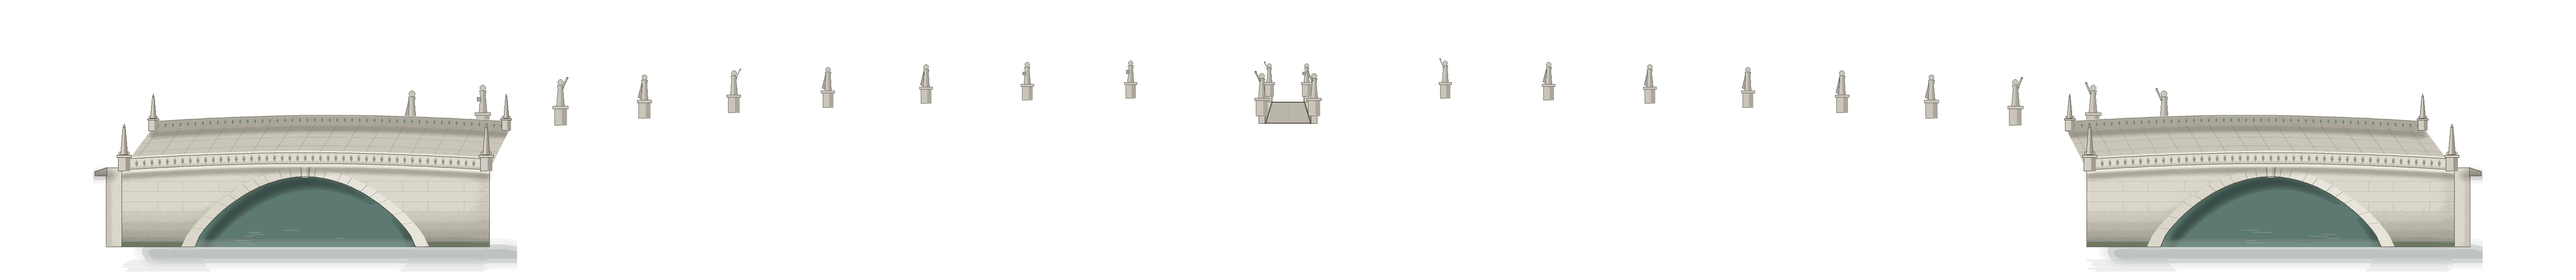
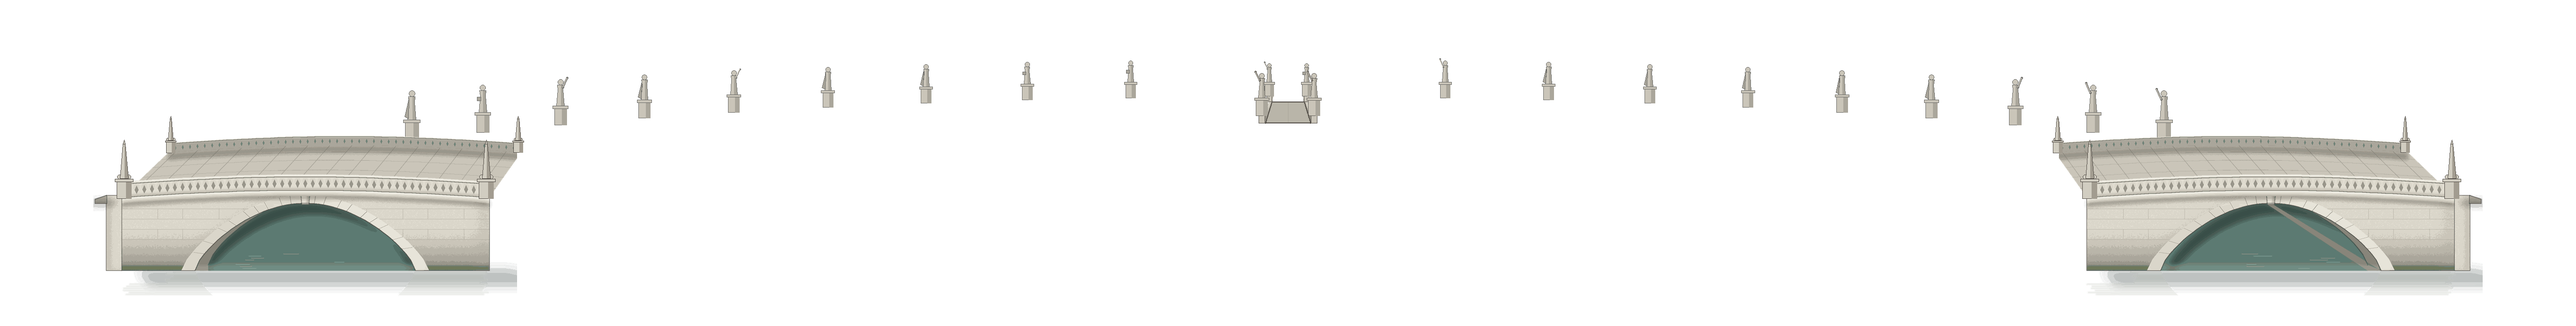
Padova: i ponti più vicini alla telecamera, più grandi, con lo sguancio dell'arco in prospettiva (#378)
Claude-Session: https://claude.ai/code/session_01Bf1d2rFJnp9n4pFf7DSqn4

diff --git a/src/shared/stages.ts b/src/shared/stages.ts
@@ -539,7 +539,7 @@ export const STAGES: Record<string, StageSpec> = {
         // Il canale dietro e attorno all'isola (#378), le anse ai lati, la fila di statue sulla sponda di là e i ponticelli
         { file: "canale-dietro.png", x: 960, y: 644, floatersAfter: true },
         { file: "ansa.png", x: 960, y: 604 },
-        { file: "ponticelli.png", x: 960, y: 640 },
+        { file: "ponticelli.png", x: 960, y: 690 },
         // il parco oltre il vialetto, ai lati: i platani più lontani, più piccoli
         { file: "platano.png", x: -330, y: 566, scale: 0.3 },
         { file: "platano.png", x: 2250, y: 566, scale: 0.3, flip: true },

diff --git a/tools/arene/padova.py b/tools/arene/padova.py
@@ -2212,19 +2212,22 @@ def _walk_bridge_painted(t, x_in, x_out, rng):
     a, b = min(x_in, x_out), max(x_in, x_out)
     left_side = x_out < x_in  # il ponte di sinistra: verso il centro c'è l'isola a destra
     x0, y0 = a - 30, 446
-    w, h = b - a + 60, 220
+    w, h = b - a + 60, 236
     q = Quadro(w, h, origin=(x0, y0), scale=t.k)
     ink = (78, 72, 66)
     S, S_SH, S_DK, S_HI = (226, 222, 210), (176, 170, 158), (128, 124, 116), (246, 244, 236)
     WATER, WATER_D = (92, 122, 114), (54, 74, 68)
-    far_y, near_y, water, hump = 480, 522, 604, 7
+    # più vicino alla telecamera della striscia dove si gioca (#378, chiesto da Riccardo): il bordo lontano della
+    # passerella è all'altezza della striscia, quello vicino più giù, e l'acqua al livello del canale davanti (622)
+    far_y, near_y, water, hump = 504, 552, 630, 8
+    K = 1.25  # più vicino = più grande: parapetti, cornice, conci
     n = 48
 
     def gob(u):
         return hump * math.sin(math.pi * u) ** 0.9
 
     def conv(x):  # il bordo lontano scappa appena verso il centro dell'arena (il punto di fuga)
-        return x + (960 - x) * 0.025
+        return x + (960 - x) * 0.04
 
     xs = [a + (b - a) * i / n for i in range(n + 1)]
     near = [(x, near_y - gob(i / n)) for i, x in enumerate(xs)]
@@ -2251,6 +2254,7 @@ def _walk_bridge_painted(t, x_in, x_out, rng):
         q.poly(holes, [(x, y - 7), (x + 1.1, y - 4.5), (x, y - 2), (x - 1.1, y - 4.5)])
     q.fill(q.intersect(holes, fp), (118, 132, 120))
     q.line([(x, y - 9.5) for x, y in far], 1.8, S)
+    reveal = None
     q.outline(fp, 0.4, ink)
     # la passerella vista dall'alto, lastricata, con l'ombra del parapetto lontano
     deck = q.poly(q.mask(), far + list(reversed(near)))
@@ -2268,6 +2272,15 @@ def _walk_bridge_painted(t, x_in, x_out, rng):
     q.fill(opening, WATER)
     vault = q.poly(q.mask(), [(x + (mid - x) * 0.06, y + (water - y) * 0.0) for x, y in arch] + [(x + 10, y + 12) for x, y in reversed(arch)])
     q.fill(q.intersect(q.soften(vault, 3), opening), WATER_D, 0.95)
+    # in prospettiva, dentro l'arco si vede lo sguancio dalla parte lontana dal centro (la volta che va indietro verso
+    # il punto di fuga) e, in fondo, l'arco della faccia di là, più piccolo e spostato verso il centro
+    sg = 1 if mid < 960 else -1
+    depth = 16
+    back_arch = [(x + sg * depth * 0.9, y - depth * 0.35) for x, y in arch]
+    side_wall = q.poly(q.mask(), (arch[: n // 2 + 1] if sg > 0 else arch[n // 2:]) + list(reversed(back_arch[: n // 2 + 1] if sg > 0 else back_arch[n // 2:])) + ([(mid - span / 2 + sg * depth * 0.9, water + 0.5), (mid - span / 2, water + 0.5)] if sg > 0 else [(mid + span / 2 + sg * depth * 0.9, water + 0.5), (mid + span / 2, water + 0.5)]))
+    q.fill(q.intersect(side_wall, opening), (150, 146, 134), 0.95)
+    q.fill(q.intersect(q.soften(side_wall, 2), opening), (110, 106, 96), 0.4)
+    q.line(back_arch, 0.8, (70, 80, 74))
     under = q.poly(q.mask(), [(mid - span / 2, water - 6), (mid + span / 2, water - 6), (mid + span / 2, water + 1), (mid - span / 2, water + 1)])
     q.fill(q.intersect(q.soften(under, 2), opening), (130, 158, 148), 0.6)  # la luce che passa sotto, sul pelo dell'acqua
     rip = q.mask()
@@ -2314,22 +2327,22 @@ def _walk_bridge_painted(t, x_in, x_out, rng):
     q.fill(q.inner_shadow(key, -2, -1, 1), S_SH, 0.9)
     q.outline(key, 0.5, ink)
     q.fill(q.inner_shadow(face, -10, -4, 7), S_SH, 0.55)  # il volume: la faccia gira in ombra verso destra
-    corn = q.poly(q.mask(), [(x, y) for x, y in near] + [(x, y + 4) for x, y in reversed(near)])
+    corn = q.poly(q.mask(), [(x, y) for x, y in near] + [(x, y + 5 * K) for x, y in reversed(near)])
     q.fill(corn, S_HI)
     q.fill(q.soften(q.poly(q.mask(), [(x, y + 4) for x, y in near] + [(x, y + 10) for x, y in reversed(near)]), 2), (40, 38, 34), 0.35)  # l'ombra sotto la cornice
     q.outline(face, 0.6, ink)
     # il parapetto vicino, traforato: dai buchi si vede la passerella
-    np_ = q.poly(q.mask(), near + [(x, y - 11) for x, y in reversed(near)])
+    np_ = q.poly(q.mask(), near + [(x, y - 11 * K) for x, y in reversed(near)])
     holes = q.mask()
     for i in range(1, n):
         x, y = near[i]
-        q.poly(holes, [(x, y - 9), (x + 1.6, y - 5.5), (x, y - 2), (x - 1.6, y - 5.5)])
+        q.poly(holes, [(x, y - 9 * K), (x + 1.6 * K, y - 5.5 * K), (x, y - 2 * K), (x - 1.6 * K, y - 5.5 * K)])
     panel = q.minus(np_, holes)
     q.fill(panel, S)
     q.fill(q.inner_shadow(panel, 0, -2, 1.2), S_SH, 0.8)
     q.fill(q.intersect(holes, np_), (150, 146, 134))
-    q.line([(x, y - 12) for x, y in near], 3.0, S)
-    q.line([(x, y - 12.8) for x, y in near], 0.9, S_HI)
+    q.line([(x, y - 12 * K) for x, y in near], 3.0 * K, S)
+    q.line([(x, y - 12.8 * K) for x, y in near], 0.9 * K, S_HI)
     q.outline(np_, 0.45, ink)
     # la spalla sulla sponda di fuori, con il gradino che scende sul vialetto, e l'ombra a terra
     ox = a if left_side else b
@@ -2349,15 +2362,15 @@ def _walk_bridge_painted(t, x_in, x_out, rng):
     for x, y in (far[0], far[-1]):
         _obelisk(t, x + (3 if x < mid else -3), y, 0.7, (84, 78, 72, 255))
     for x, y in (near[0], near[-1]):
-        _obelisk(t, x + (3 if x < mid else -3), y + 1, 0.9, (84, 78, 72, 255))
+        _obelisk(t, x + (3 if x < mid else -3), y + 1, 0.9 * K, (84, 78, 72, 255))
 
 
 def bridges_and_statues(name):
     """Le statue sulla sponda di là del canale e i ponticelli (#378, chiesto da Riccardo): la fila di statue del Prato
     lungo tutto l'ovale, più piccole lontano; il ponticello dietro la fontana visto di fronte, e i due alle punte
     dell'isola visti di fianco, che portano alla sponda di fuori. Sono dietro la piazza: non ci si cammina sopra.
-    Prop dietro in x 960, y 640, a 2x: x -420..2340, y 340..640."""
-    x0, y0, w, h = -420, 340, 2760, 300
+    Prop dietro in x 960, y 690, a 2x: x -420..2340, y 340..690."""
+    x0, y0, w, h = -420, 340, 2760, 350
     t = Tela(w, h, origin=(x0, y0), ss=1)
     cx, cy, rx, ry = CANAL_OVAL
     rng = rand(3786)
